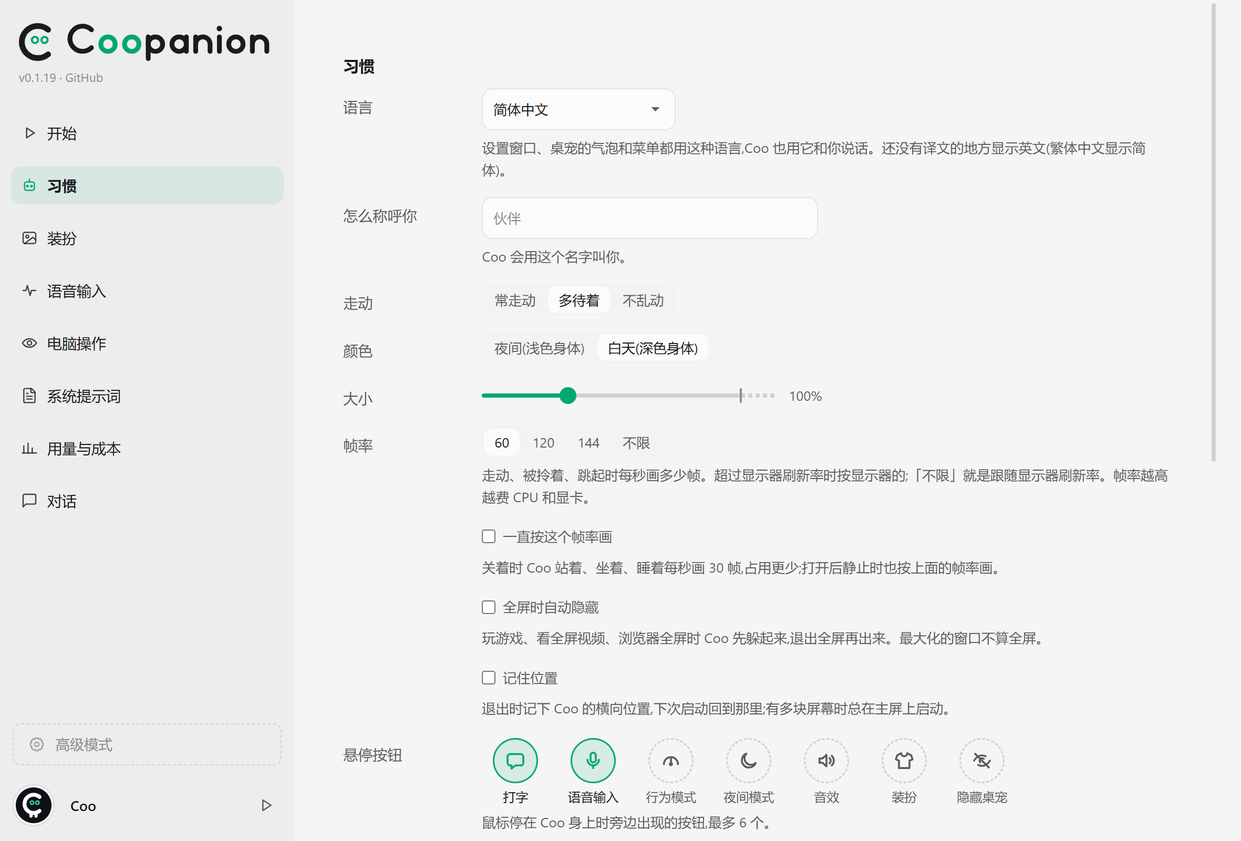
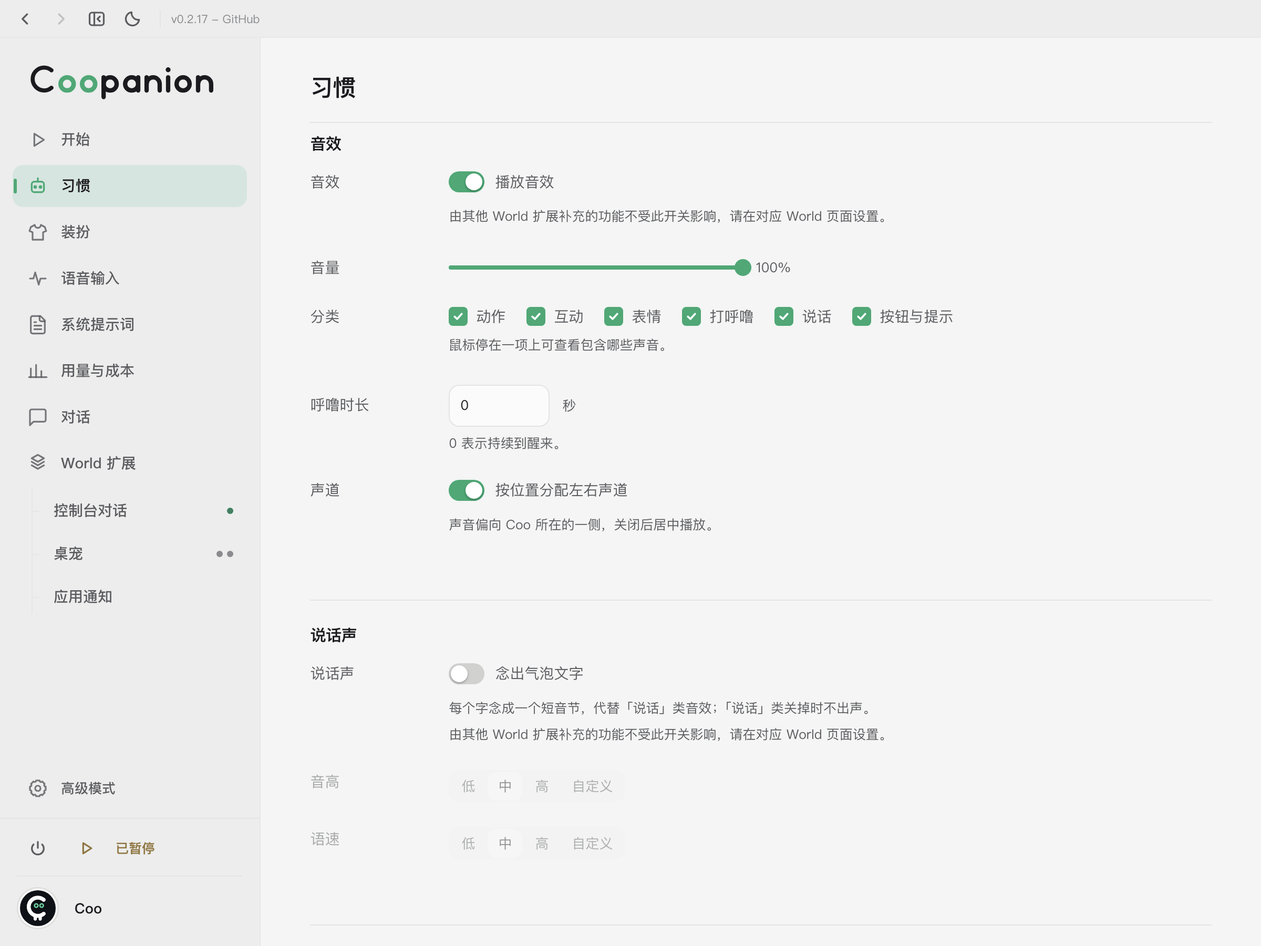
docs: 同步中英文 README 与 v0.2.17 界面截图
Screenshots use the built settings window and a separate Core with fresh Chinese and English data.

diff --git a/README.md b/README.md
@@ -1,3 +1,4 @@
+<!-- Owner: app/main.cjs, core/companion.ts, console/index.ts. -->
 <p align="center">
   <picture>
     <source media="(prefers-color-scheme: dark)" srcset="assets/banner-dark.svg">
@@ -35,19 +36,17 @@ Coopanion is a desktop pet. **Coo** lives on the bottom edge of your screen: it 
 
 **Languages**: the app and its first-run guide are in 简体中文, 繁體中文, English, 日本語, 한국어, Français, Deutsch, Español (Latinoamérica), Português (Brasil), Italiano and Русский. A new install uses the system language (English when the system language is none of these); change it under **Language** on the Habits page. Coo talks to you in the app language.
 
-![1790222143546](image/README/1790222143546.png)
-
-<p align="center"><img src="image/README/pet-desktop-en.png" alt="Coo" width="640"></p>
+<p align="center"><img src="image/README/start-en.png" alt="Coopanion settings: model connections and the Coo preview" width="960"></p>
 
 ## Features
 
 - **Many model services**: OpenAI, Anthropic, Gemini, xAI, OpenRouter, DeepSeek, Kimi, Qwen, MiniMax, Zhipu GLM, Doubao, Baidu Qianfan and StepFun with an API key, or a ChatGPT account through its ChatGPT plan.
-- **Chat**: hold the talk key and speak, or type; Coo answers in a bubble. Speech is recognized on your machine with FunASR or Whisper.
-- **Memory**: Coo remembers what you talked about and when you poke it or pat its head. What it knows about you goes in `PARTNER.md` in its workspace, and every change to the workspace is kept as a version (the Windows build carries git; on macOS and Linux git has to be installed).
-- **Computer use**: clicking buttons, typing, switching windows. Coo asks before it acts.
+- **Chat**: hold the talk key and speak, or type; Coo answers in a bubble. Speech is recognized locally with FunASR or Whisper, or by a transcription service you configure.
+- **Memory**: Coo keeps notes about you in `PARTNER.md` and organizes longer memories by topic and date. Its text changes are versioned when Git is available; Windows includes Git, while macOS and Linux use the system installation.
+- **Computer use**: let Coo look at the screen, click, type and switch windows. Off by default, with configurable consent and interruption when you use the mouse, keyboard or talk key.
 - **Activity bubbles**: an animated icon shows when Coo is thinking, reading, searching, writing or using the computer.
 - **Figures**: Coo, or the **DeepSeek Chan**, a fully animated whale girl with eight vendor color schemes and three outfits. Other figure packs are imported on the Dress up page (see the [figure pack compatibility promise](packages/cortico-world-desktop-pet/README.md#形象包兼容承诺)).
-- **Dress up**: Coo's colors (five of them after Cultist Simulator's principles: Lantern, Grail, Forge, Heart, Winter), hats, earrings, glasses and neckwear, its size and how often it walks.
+- **Dress up**: colors including Nai Coo and five Cultist Simulator principles, hats, earrings, glasses and neckwear. Adjust the pet, bubble and text sizes separately.
 - **Alarms**: ask Coo to set one at a local time or after a number of minutes.
 - **Extensions**: Worlds such as a QQ bot, a drawing room and small games, installed from World extensions → Extension market.
 - **OBS overlay**: Coo and its bubbles as an OBS Browser source on a transparent background.
@@ -60,8 +59,6 @@ You need:
 
 - Windows 10 / 11 (64-bit), macOS 13 or later (Apple silicon or Intel), or a 64-bit Linux desktop (X11, or XWayland under Wayland; speech recognition needs glibc 2.32 or later: Ubuntu 22.04, Debian 12 and later);
 - an API key from one model service, which bills you for usage (see [Cost and privacy](#cost-and-privacy)), or a ChatGPT account with a plan.
-
-Installing does not need administrator rights.
 
 ### Windows
 
@@ -89,7 +86,7 @@ While App Store is the active app, Coo stays behind other windows so that App St
 ### Linux
 
 1. From the [latest release](https://github.com/Pal-AI-Lab/Coopanion/releases/latest), download `Coopanion-<version>-linux-x64.deb` (Debian / Ubuntu) or `Coopanion-<version>-linux-x64.AppImage` (other distributions).
-2. deb: `sudo apt install ./Coopanion-<version>-linux-x64.deb`. AppImage: `chmod +x Coopanion-*.AppImage` and run it; Ubuntu 22.04 and later need `libfuse2` first (`sudo apt install libfuse2t64`).
+2. deb: `sudo apt install ./Coopanion-<version>-linux-x64.deb`. AppImage: install your distribution’s FUSE 2 compatibility library, run `chmod +x Coopanion-*.AppImage`, then open the file.
 
 > [!NOTE]
 > The pet is a transparent always-on-top window, so the desktop needs compositing (on by default in GNOME and KDE). The tray icon needs status icon support (GNOME needs the AppIndicator extension); without a tray, right-click Coo to reach the settings. Computer use needs `xdotool` and `zenity`, which the deb installs; screenshots under Wayland also need one of `grim`, `spectacle`, `scrot` or ImageMagick.
@@ -97,11 +94,11 @@ While App Store is the active app, Coo stays behind other windows so that App St
 ## Getting started
 
 1. **Start**: Coo drops to the bottom of the screen and an icon appears in the tray (menu bar on Mac, status bar on Linux). No window opens.
-2. **Guide**: Coo walks you through setup in its bubbles: what to call you, what Coo is like, how much it walks, which model service to use, and the speech model download (from ModelScope; FunASR about 230 MB, or Whisper about 360 MB when the app language is French, German, Spanish, Portuguese, Italian or Russian). The × on the bubble ends the guide; **Guide** on the Start page runs it again. Afterwards you can talk Coo through its personality and way of speaking, and it writes the persona into its prompt itself.
+2. **Guide**: Coo walks you through setup in its bubbles: the app language, what to call you, what Coo is like, how much it walks, which model service to use, and the speech model download (from ModelScope; FunASR about 230 MB, or Whisper about 360 MB when the app language is French, German, Spanish, Portuguese, Italian or Russian). The × on the bubble ends the guide; **Guide** on the Start page runs it again. Afterwards you can talk Coo through its personality and way of speaking, and it writes the persona into its prompt itself.
 3. **Say hello**: tap **Left Alt** (**Left Option** on Mac), then press and hold it, say "hello", and release to send. Allow microphone access when asked.
 
 <details>
-<summary><b>Getting an API key</b></summary>
+<summary><b>Connect a model: API key or ChatGPT sign-in</b></summary>
 
 Select a service in Coo's bubble or on the Start page, create a key on its platform (DeepSeek also needs a topped-up balance) and paste it in.
 
@@ -122,7 +119,7 @@ Select a service in Coo's bubble or on the Start page, create a key on its platf
 | StepFun | [platform.stepfun.com](https://platform.stepfun.com/interface-key) | `step-3.7-flash` |
 | StepFun Step Plan | [platform.stepfun.com](https://platform.stepfun.com/interface-key) | `step-5-preview` (billed to the Step Plan subscription) |
 
-Each default is the fast, cheap, vision-capable tier of that vendor; change the name in the Model field on the Start page to use another. Kimi, Qwen, MiniMax and Zhipu GLM have separate mainland China and international platforms with separate accounts and keys; switch between them on the Start page. Doubao, Baidu Qianfan, StepFun and StepFun Step Plan take mainland China accounts only. Only DeepSeek, Anthropic and StepFun Step Plan have been tested with real keys; open an issue if another one fails.
+These are the app’s [configured defaults](packages/cortico-provider-coo/src/vendors.ts). To use another model, change the Model field on the Start page; computer use requires image support. Kimi, Qwen, MiniMax and Zhipu GLM have separate mainland China and international platforms with separate accounts and keys; switch between them on the Start page. Doubao, Baidu Qianfan, StepFun and StepFun Step Plan take mainland China accounts only. Only DeepSeek, Anthropic and StepFun Step Plan have been tested with real keys; open an issue if another one fails.
 
 **ChatGPT** takes no key: pick it, press **Continue with ChatGPT** and sign in in the browser that opens. Coo's requests count toward that account's ChatGPT plan and its usage limits; at the limit Coo goes quiet and tries again every few minutes.
 
@@ -132,61 +129,92 @@ Each default is the fast, cheap, vision-capable tier of that vendor; change the 
 
 ### Talking and playing
 
-- **Voice**: tap Left Alt, then hold it and speak; releasing ends the sentence. When the talk key and the typing key are the same key, hold to talk starts once the final press lasts more than 300 ms, so a quick double tap only opens the typing box. The talk key, microphone and listening mode (hold to talk / press to toggle / always listen) are on the Voice input page. With the system default microphone selected, changing the default input in system settings switches voice input to that device without restarting Coopanion. Instead of recognizing speech locally, you can pick an OpenAI-compatible transcription service there; the recording of each sentence then goes to that service.
-- **Typing**: rest the pointer on Coo and click the bubble button beside it. With **Typing key** on in Habits, pressing that key in any window opens the typing box too (left Ctrl pressed twice by default). Multi-press shortcuts open it after the final quick release; holding the final press does not open it. You can paste up to 4 images into the typing box.
-- **Bubbles**: Coo's bubble stays up while the pointer is on it; the countdown resumes when the pointer leaves.
-- **Alarms**: ask Coo for one at a local time or after a number of minutes. Daily alarms keep the local clock time across daylight-saving changes, and alarms missed while the app is closed arrive when it next starts.
-- **Touch**: click to poke Coo, move back and forth over its head to pat it, press and drag to pick it up; let go mid-swing to throw it, or over another display to move it there.
-- **Menu**: right-click Coo for pause / resume, settings, typing, voice input, dress up, hide and quit.
+- **Voice**: tap **Left Alt** (**Left Option** on Mac), then hold it and speak; release to send. The Voice input page sets the talk key, microphone, speech threshold and listening mode: hold to talk, press to toggle or always listen. With the system default microphone selected, Coo follows changes to the default input device.
+- **Typing**: hover over Coo and click the bubble button. Enable **Habits → Typing key** to open the box from any window (double-press Left Ctrl by default). Paste up to four images into a message. You can also type on the Chat page.
+- **Shared shortcuts**: when the talk key and typing key use the same key, a quick double tap opens typing; holding the final press for more than 300 ms starts voice input. A held final press does not open the typing box.
+- **Bubbles**: hovering over a bubble keeps it open. Habits controls activity bubbles, input bubbles, bubble size, text size and how quickly text appears.
+- **Alarms**: ask Coo for one at a local time or after a number of minutes. Daily alarms keep their local time across daylight-saving changes; missed alarms arrive when the app next starts.
+- **Touch**: click to poke, move across Coo’s head to pat it, or drag to pick it up. Release mid-swing to throw it, or on another display to move it there. **Habits → Response mode** chooses which touches get an immediate answer.
 
-Coopanion keeps running in the background: closing the settings window does not quit it, and the tray icon (menu bar on Mac) has show pet, let clicks pass through Coo, start at login, restart and quit. With clicks passing through, every click goes to the window underneath while Coo still walks and talks, which helps while playing a game; it lasts for this run, and the same tray item turns it off.
+Speech recognition is local by default: FunASR for Chinese, English, Japanese and Korean, and Whisper for French, German, Spanish, Portuguese, Italian and Russian. Windows also offers its system recognizer. Choose an **OpenAI-compatible** transcription service on the Voice input page to send each sentence’s recording to that service instead.
+
+Right-click Coo for settings, typing, voice input, dress up, pause / resume, hide and quit. Closing settings leaves Coopanion running. The tray menu (menu bar on Mac) also offers start at login, restart and **Let clicks pass through Coo**. Click-through lasts until you turn it off or quit; Coo keeps walking and talking.
+
+### Appearance and sound
+
+**Dress up** changes the figure, palette and accessories immediately. Import a figure pack from a zip or folder, or drag it onto the page; imported packs can be uninstalled there. Large imports have a confirmation warning above 128 MB.
+
+<p align="center"><img src="image/README/dress-en.png" alt="Dress up: Coo palettes, hats and accessories" width="960"></p>
+
+In **Habits → Sounds**, choose sound categories, set the volume for all pet sounds, and decide whether audio pans with Coo’s position. **Speech → Read bubbles aloud** replaces the talking sound with short syllables, with adjustable pitch and speed. These switches affect the desktop pet; sound provided by another World is configured on that World’s page.
+
+<p align="center"><img src="image/README/habits-en.png" alt="Habits: pet sound volume, stereo positioning and speech settings" width="960"></p>
+
+To use Coo in OBS, turn on **Habits → Other → Export OBS overlay** and add the displayed URL as an OBS Browser source, using your screen’s resolution. It includes Coo and the bubbles on a transparent background.
 
 ### Computer use
 
-Off by default. Tick **Let Coo use this computer** in the Computer use section of the Habits page, read the risks it shows and click **Turn on**; untick it to keep Coo off your computer again.
+Off by default. In **Habits → Computer use**, enable **Let Coo use this computer** and confirm the risk notice. Turn off **Allow the mouse and keyboard** to allow screenshots only, or disable computer use entirely.
 
-- **When to ask you**, from strictest to loosest: `ask-each-turn`, `ask-before-acting`, `ask-once` (the default: Coo looks at the screen without asking and asks once before using the mouse and keyboard; a yes lasts 30 minutes) and `never-ask`.
-- At every level, Coo asks once more before typing or pressing keys in a terminal window or pressing Win+R; after a yes it does not ask about these again for the same 30 minutes. Turning on **Turn off asking before terminals and the Run box** in the desktop pet World's config in advanced mode makes these steps follow the asking level like any other input.
-- Coo uses the computer only for what you say, type or pick in the desktop pet. When a message from elsewhere asks for it, Coo tells you in a bubble and waits for your yes.
-- When you touch the mouse or keyboard, Coo stops and waits until you have been idle for 2 seconds by default; time already spent idle counts toward that wait. Logins, passwords and payments are left to you.
-- Each voice message spoken with the talk key (hold to talk or press to toggle) interrupts reply generation or the current computer operation once transcription finishes and the message is sent. Waiting ends early, typing stops between chunks, and unstarted steps in the same round are skipped. A click, drag or key sequence already in progress finishes before stopping; completed actions are not undone. Speech heard while always listening does not interrupt.
-- Action receipts identify the system's current keyboard target, including the pet's typing box and untitled windows; an unreadable title is marked as unavailable. On macOS, an app that does not respond to window queries is still identified by its program name.
-- When input is blocked, the receipt reports the system-input or pointer signal, its check count and last tick, and the foreground window and program; the diagnostics include the same evidence. Typing to Coo in its typing box or the chat page also takes priority, and Coo is instructed to wait for your message before acting.
-- One wake makes at most 40 model requests; at the limit the turn ends and you can tell Coo to continue.
+| When to ask you | Behavior |
+| --- | --- |
+| Every turn | Ask before the first screenshot or input in each turn. |
+| Before acting | Take screenshots without asking; ask before the first mouse or keyboard action each turn. |
+| Once (default) | Take screenshots without asking; ask before acting, then reuse consent for the configured period (30 minutes by default). |
+| Never | Take screenshots and act without asking. |
+
+- Terminal input and Win+R require separate consent for the configured period. Advanced mode’s **Desktop pet → Config** can turn off that extra question.
+- Computer use is authorized through what you say, type or choose in the desktop pet. Requests from other Worlds need your confirmation in a bubble.
+- Moving the mouse or using the keyboard makes Coo yield until you have been idle for two seconds by default. Typing to Coo also takes priority.
+- A message sent with the talk key interrupts a reply or computer operation once transcription finishes. Waiting and remaining steps stop; a click, drag or key sequence already in progress finishes first. Always-listening speech does not interrupt.
+- Handle logins, passwords and payments yourself. One wake allows up to 40 model requests; tell Coo to continue if it reaches that limit.
+
+These controls apply to the desktop pet’s computer use. Configure tools supplied by other Worlds on their own pages.
 
 ### Settings window
 
-The title bar holds Back, Forward, sidebar folding and the light/dark switch on the left (to the right of the traffic lights on macOS), followed by the version, the GitHub link and the update status; hover the status for details. The sidebar folds when the window gets narrower than 1000px. The window remembers its last unmaximized size and reopens at it within the primary display’s work area.
+Open settings from the tray or Coo’s right-click menu. The title bar has Back, Forward, sidebar folding, appearance and update controls. The sidebar folds below 1000 px; the window remembers its size.
 
-Click the tray icon, or right-click Coo and click the gear. **Normal mode** shows pet pages, World extensions and their pages; **Advanced mode** at the bottom left of the expanded sidebar adds model providers, Persona, Memory, console and diagnostics.
-
-| Page | What is there |
+| Page | What you can change or view |
 | --- | --- |
-| Start | Connect a model, show or hide the pet, interface colors, rerun the guide, pause / resume |
-| Habits | Language, your name and Coo's, usage statistics, walking, how Coo responds to touches, typing key, display sizes, sounds and speech, computer use, OBS overlay |
+| Start | Model connection, pet visibility and preview, interface colors, first-run guide |
+| Habits | Language and names, walking and touch responses, self-adjustment permissions, shortcuts, display, sound, computer use, OBS overlay |
 | Dress up | Figure, colors and accessories; import or uninstall figure packs |
-| Voice input | Recognizer or transcription service, model download, talk key, microphone, listening mode, speech threshold |
-| System prompt | Coo's system prompt; the persona is the CONSTITUTION section |
-| Usage & cost | Tokens used and money spent per day |
-| Chat | The current conversation, with the images Coo shows |
+| Voice input | Recognition engine or transcription service, model download, talk key, microphone, listening mode and speech threshold |
+| System prompt | Persona and prompt templates; save with Ctrl+S, then **Apply now** to update the current conversation |
+| Usage & cost | Token usage and costs by day and model |
+| Chat | Conversation history, typing, images and diagnostic export |
+| World extensions | Installed Worlds, groups, ordering and the extension market |
 
-<p align="center"><img src="image/README/habits-en.png" alt="Habits" width="720"></p>
-<p align="center"><img src="image/README/dress-en.png" alt="Dress up" width="720"></p>
+Pause / resume is at the bottom of the sidebar. **Advanced mode** adds **Model connections**, Persona, Memory and diagnostics. Model connections lets you change models and reasoning settings, add compatible services, set prices and install provider extensions. Return to normal mode from the same sidebar control.
 
-The Model page in advanced mode changes the model and reasoning effort, adds an "OpenAI Responses Compatible" connection for any other service that speaks the Responses API, and takes prices for services without built-in ones.
+### World extensions
 
-**Extensions**: **World extensions → Extension market** in normal mode lists Worlds on npm with the `cortico-world` keyword; packages in the [official index](https://github.com/Pal-AI-Lab/cortico-extensions) also show tags, votes and comments. The **World extensions** tab contracts each World card into an icon in a separate column while the catalog opens from the right; returning to **My Worlds** expands the cards and closes the catalog. Both tabs preserve avatar positions and list scrolling. Pending extensions appear under **Pending restart**, with **Restart process** below the group; other entries appear under **Extensions**. Only a process restart animates pending entries into assembly order. Compact white cards use icon controls and show labeled live signals; package details and World configuration remain available. Visibility changes offer to reload the system prefix when required. Routine action success is reflected in the entry state. Install and version-change results stay in their detail drawer; failed restarts can be retried. The catalog supports search, capability categories (choosing one clears the tag choices), tags and package details: series tags select, caution tags exclude and stay excluded across sessions, and the selections and exclusions are listed above the cards; switching the manual installation source keeps the form in place; each list scrolls independently, with scrollbars shown only while hovering its region and the catalog scrollbar at the page’s right edge. Catalog cards place author, version and badges beside the title; installed state appears on the action button. Provider extensions are under **Model connections → Extension market**, using the same catalog layout without the World icon column. Switching between it and **Settings** has no transition animation. **Settings** keeps connection configuration; instance cards show provider type and model. Its instance list and configuration form scroll independently, with the new-instance button fixed above the list and scrollbars shown on hover. The configuration scrollbar sits at the right edge of the page.
+In **World extensions → Extension market**, search for Worlds, filter by capability or tags, and open a package’s details to install it. Packages in the [official index](https://github.com/Pal-AI-Lab/cortico-extensions) include tags, votes and comments. Excluding a caution tag keeps matching packages out of the results across visits.
 
-**Updates**: the Windows installer build and the AppImage download new versions in the background, and Coo asks whether to restart and update; choosing **Later** installs it when you quit. Turning off **Habits → General → Automatic updates** stops the checks, cancels a download under way and keeps a downloaded update from installing. On Mac, with the deb and with the Windows portable build, the update status beside the version in the title bar links to a newer release to download by hand. Steam updates the Steam build.
+After installation, use **Restart process** when the extension is listed under **Pending restart**. In **My Worlds**, you can:
+
+- group and drag Worlds into order; the sidebar follows that order;
+- open extension details from a World’s name or avatar and open its configuration;
+- hide a World from the sidebar, hide its tools and messages from Coo while it keeps running, or stop it.
+
+<p align="center"><img src="image/README/worlds-en.png" alt="World extensions: installed Worlds, status and grouping controls" width="960"></p>
+
+Provider extensions are under **Advanced mode → Model connections → Extension market**. Installed extensions remain in the data folder across application reinstalls.
+
+### Updates
+
+The Windows installer build and AppImage download updates in the background. Coo asks whether to restart and install; **Later** installs on quit. On these builds, **Habits → General → Automatic updates** stops checks and downloads and prevents a downloaded update from installing when disabled.
+
+macOS, deb and Windows portable builds link to a newer release in the title bar for manual installation. Steam manages updates for its build.
 
 ## Cost and privacy
 
 - **Cost**: Coopanion is free. The model service you choose bills you for usage; see the Usage & cost page (built-in prices exist for DeepSeek, OpenAI, Anthropic, Gemini's paid tier and xAI). Signed in with ChatGPT, requests count toward the ChatGPT plan instead and show no cost.
-- **Sent to the model service**: what you say and type, your interactions with Coo, and screenshots during computer use. Only the service you configured receives them.
+- **Sent to the model service**: what you say and type, attached images, your interactions with Coo, and screenshots during computer use. Only the service you configured receives them.
 - **Kept on your machine**: API keys and the ChatGPT sign-in, memory, conversation history, settings and logs. Speech is recognized locally and only the text is sent, unless a transcription service is chosen on the Voice input page: then the recording of each sentence goes to that service.
-- **Local pet service**: browser writes and WebSocket connections require the pet service's own HTTP origin, including its port. The desktop window authenticates with a random credential passed to its host at startup.
 - **Anonymous usage statistics**: sent to `survey.palailab.org`. Only counts, time used, settings and a random install ID; no conversations, screenshots, keys or files. Every field is listed in [docs/TELEMETRY.md](docs/TELEMETRY.md). Turn it off in Habits.
-- **Other network access**: checks for new releases on GitHub (in the background on Windows and with the AppImage, when the settings window opens on Mac and with the deb); npm and the official extension index on GitHub on the Extensions page, and GitHub for votes and comments; ModelScope (or Hugging Face as a fallback) when downloading the speech model.
+- **Other network access**: checks for new releases on GitHub (in the background on Windows and with the AppImage, when the settings window opens on Mac and with the deb); npm and the official extension index on GitHub in the extension market, and GitHub for votes and comments; ModelScope (or Hugging Face as a fallback) when downloading the speech model.
 
 ## Data and uninstalling
 
@@ -196,7 +224,7 @@ The Model page in advanced mode changes the model and reasoning effort, adds an 
 | macOS | `~/Library/Application Support/Coopanion` | Drag Coopanion from Applications to the Trash |
 | Linux | `~/.config/Coopanion` | deb: `sudo apt remove coopanion`; AppImage: delete the file |
 
-Uninstalling keeps the data, so memory and settings are still there after a reinstall. To remove everything, delete the data folder by hand (on Windows, the whole install folder). Inside it, `home` holds memory, conversations, settings and API keys, `home/models` the speech model, `extensions` the extensions and `logs` the logs.
+Uninstalling an installed build keeps its data. Deleting a portable folder also deletes its `data`, so back that up first. To remove everything, delete the data folder by hand (on Windows, the whole install folder). Inside it, `home` holds memory, conversations, settings and API keys, `home/models` the speech model, `extensions` the extensions and `logs` the logs.
 
 On Windows, a reinstall into a new folder asks at start whether to inherit the data used before or start a new one.
 
@@ -212,7 +240,7 @@ Right-click the tray icon → Show pet; if the icon is hidden, click `^` at the 
 <details>
 <summary><b>Coo does not answer</b></summary>
 
-Check the status next to the title on the Start page. **Paused**: click resume. **No model connected**: check that the API key is complete and the account has balance, then click **Test**. Keys for Kimi, Qwen, MiniMax and Zhipu GLM only work on the platform (mainland China or international) they were created on; Doubao needs the default model enabled in the Ark console. After 5 failed model requests in a row, Coo says the error in a bubble.
+Check **Start → Connected model** and the run status at the bottom of the sidebar. **Paused**: click resume. **Not connected**: check that the API key is complete and the account has balance, then click **Save and start**. Use **Test** to recheck an existing connection. Keys for Kimi, Qwen, MiniMax and Zhipu GLM only work on the platform (mainland China or international) they were created on; Doubao needs the default model enabled in the Ark console. After 5 failed model requests in a row, Coo says the error in a bubble.
 
 </details>
 
@@ -258,7 +286,7 @@ The Chat page has the full record. If something goes wrong, click **Export diagn
 ## Community
 
 - QQ Group 2: 1129285246 (Group 1, 1080755910, is full)
-- Discord Server: https://discord.gg/DR37WB5zJf
+- [Discord server](https://discord.gg/DR37WB5zJf)
 
 ## Contributing
 
